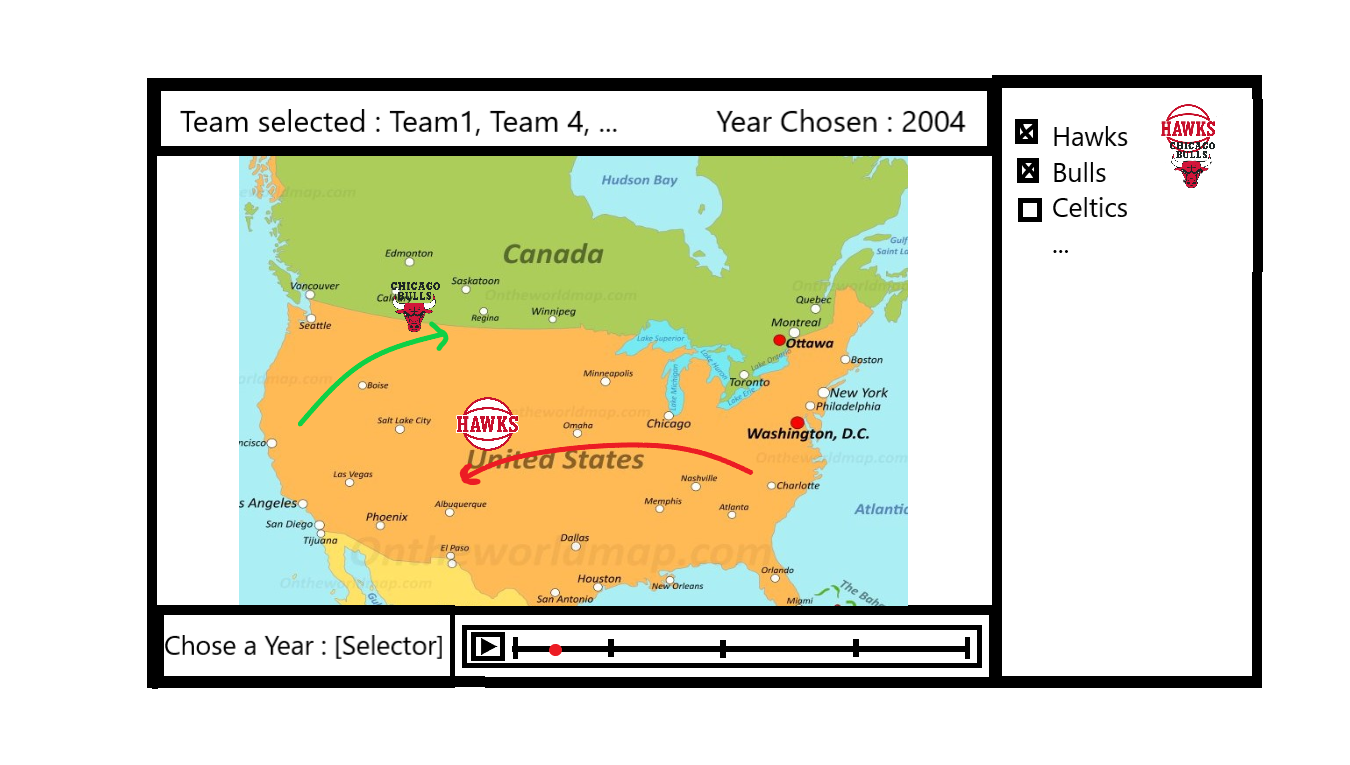
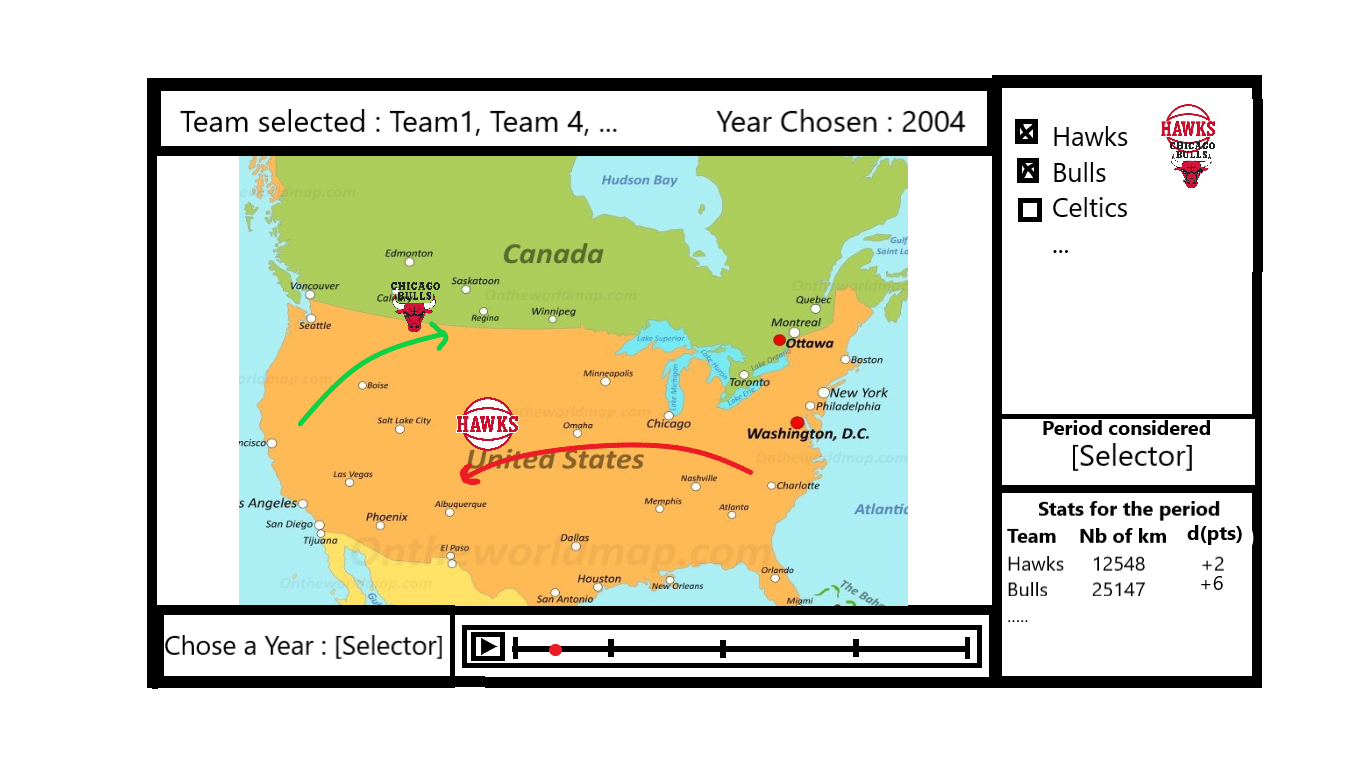
Add the period selector and the statistics

Changed region(s): [[0.7467, 0.5412, 0.9333, 0.7817]]

diff --git a/website/js/viz1.js b/website/js/viz1.js
@@ -1,4 +1,4 @@
-var width = 962,
+var width = 900,
         rotated = 90,
         height = 502;
 
@@ -103,39 +103,10 @@ var width = 962,
 
   }
 
-  function drawLabels() {
-        // white shadow
-        map.svg.append("g").attr('class', 'zoom')
-            .selectAll("text")
-            .data(topojson.feature(map.geo, map.geo.objects.units).features)
-            .enter().append("text")
-            .attr("class", "place-label shadow")
-            .style("font-size", "8px")
-            .attr("x", function(d) { return map.path.centroid(d)[0]; })
-            .attr("y", function(d) { return map.path.centroid(d)[1]+4; })
-            .attr("text-anchor","middle")
-            .text(function(d) { return csv[d.properties.name].num; })
-            .on('click', map.clicked.bind(map));
-
-        // black text
-        map.svg.append("g").attr('class', 'zoom')
-            .selectAll("text")
-            .data(topojson.feature(map.geo, map.geo.objects.units).features)
-            .enter().append("text")
-            .attr("class", "place-label")
-            .style("font-size", "8px")
-            .attr("x", function(d) { return map.path.centroid(d)[0]; })
-            .attr("y", function(d) { return map.path.centroid(d)[1]+4; })
-            .attr("text-anchor","middle")
-            .text(function(d) { return csv[d.properties.name].num; })
-            .on('click', map.clicked.bind(map));
-    }
-
-
 
 function showYearSelection(){
   let years = [...Array(19).keys()].map(i => 2021-i)
-  var dropdownButton = d3.select("#viz1-year-selection")
+  var dropdownButton = d3.select("#viz1-year-selector")
     .append('select')
   // add the options to the button
   dropdownButton // Add a button
@@ -160,6 +131,35 @@ showYearSelection()
 
     // XXX:
 //_-------------------------------------------------------//
+
+
+function showPeriodForStatisticsSelection(){
+  let nb_matches = [1,2,5,10,20,"Whole season"]
+  var dropdownButton = d3.select("#viz1-period-selector")
+    .append('select')
+  // add the options to the button
+  dropdownButton // Add a button
+    .selectAll('myOptions') // Next 4 lines add 6 options = 6 colors
+   	.data(nb_matches)
+    .style("float", "right")
+    .enter()
+  	.append('option')
+    .text(function (d) { return d; }) // text showed in the menu
+    .attr("value", function (d) { return d; }) // corresponding value returned by the butto
+
+  dropdownButton.on("change", function(d) {
+      updatePeriod(d3.select(this).property("value"))
+  })
+  function updatePeriod(nb_matches){
+    // d3.select("#chosen-year")
+    //   .text(`The year chosen is ${year}`)
+  }
+}
+showPeriodForStatisticsSelection()
+
+
+    // XXX:
+//_-------------------------------------------------------//
 class Team{
     constructor(name, id, abbreviation, lat, long){
         this.name = name;
@@ -171,7 +171,7 @@ class Team{
 }
 
 var chosenTeams = new Set()
-d3.csv('https://raw.githubusercontent.com/com-480-data-visualization/datavis-project-2022-lebron-jenkins/master/website/data/teams_summary.csv', (data) => {
+d3.csv('https://raw.githubusercontent.com/com-480-data-visualization/datavis-project-2022-lebron-jenkins/master/data_web/teams_summary.csv', (data) => {
   teams = data.map(team => new Team(team["NICKNAME"], parseInt(team["TEAM_ID"]), team["ABBREVIATION"],parseInt(team["LATITUDE"]),parseInt(team["LONGITUDE"])))
   showTeams(teams)
   })
@@ -212,8 +212,14 @@ function updateChosenTeams(d, add){
   }else{
     chosenTeams.delete(d.name)
   }
-  let text = "The teams chosen are ";
-  chosenTeams.forEach (value => text += value+ ", ")
+  let text = ""
+  if(chosenTeams.size == 0){
+    text = "Chose teams to display !"
+  }else{
+    text = "The teams chosen are ";
+    chosenTeams.forEach (value => text += value+ ", ")
+    text = text.slice(0,-2)
+  }
   d3.select("#chosen-teams")
-    .text(`${text.slice(0,-2)}`)
+    .text(`${text}`)
 }

diff --git a/website/index.html b/website/index.html
@@ -107,17 +107,12 @@
 
     <!---------------------------------------------- Viz ----------------------------------------->
     <section id="viz1" class="tm-section-pad-top">
-      <div class="container tm-container-gallery">
-        <div class="row">
-          <div class="text-center col-12">
-              <h2 class="tm-text-primary tm-section-title mb-4">Viz 1</h2>
-              <p class="mx-auto tm-work-description">
-                "Curabitur ac orci ac lorem blandit volutpat. Sed ac sodales nibh, ut
-                porttitor elit. Sed id dui mi. Vestibulum ante ipsum primis in faucibus
-                orci luctus et ultrices posuere cubilia."
-              </p>
-          </div>
+      <div class="row">
+        <div class="text-center col-12">
+            <h2 class="tm-text-primary tm-section-title mb-4">Viz 1</h2>
         </div>
+      </div>
+      <div class="container tm-container-gallery">
         <div id = "viz1-container">
           <div id = "viz1-left-part">
             <div id = "viz1-header">
@@ -127,8 +122,8 @@
 
             <div id = "viz1-map"></div>
             <div id = "viz1-bottom">
-              <div id = "viz1-year-selection">
-                <p style="float: left  ">
+              <div id = "viz1-year-selector" class = "viz1-selector-button">
+                <p>
                   Chose a season :
                 </p>
               </div>
@@ -137,8 +132,23 @@
               </div>
             </div>
           </div>
-          <div id="viz1-team-selector">
-
+          <div id = "viz1-right-part">
+            <div id="viz1-team-selector"></div>
+            <div id="viz1-period-selector" class = "viz1-selector-button">
+              <p>
+                Chose the period for the statistics :
+              </p>
+            </div>
+            <div id="viz1-statistics">
+              <p>
+                Teams      nb_kil   delta(pts)
+              </p>
+              <p>
+                Hawks       2125        5
+              </p><p>
+                Bulls       8546        2
+              </p>
+            </div>
           </div>
         </div>
     </section>

diff --git a/website/css/viz1_style.css b/website/css/viz1_style.css
@@ -3,7 +3,7 @@
   overflow: hidden; /* will contain if #first is longer than #second */
   border: 1px solid black;
 }
-#viz1-team-selector {
+#viz1-right-part {
   width: 20%;
   height : 100%;
   float:right; /* add this */
@@ -11,7 +11,7 @@
   overflow-y: auto; /* will contain if #first is longer than #second */
 }
 #viz1-left-part {
-  width: 80%;
+  width: 75%;
   height : 100%;
   float:left; /* add this */
   border: 1px solid black;
@@ -39,7 +39,7 @@
   position: absolute;
   bottom: 0;
 }
-#viz1-year-selection{
+#viz1-year-selector{
   width: 30%;
   height : 100%;
   border: 1px solid black;
@@ -49,5 +49,29 @@
   height : 100%;
   width: 70%;
   float:right; /* add this */
+  border: 1px solid black;
+}
+
+
+#viz1-right-part {
+  width: 25%;
+  height : 100%;
+  float:right; /* add this */
+  border: 1px solid black;
+
+}
+
+#viz1-team-selector {
+  width: 100%;
+  height : 35%;
+  border: 1px solid black;
+  overflow-y: auto; /* will contain if #first is longer than #second */
+}
+
+#viz1-period-selector {
+  border: 1px solid black;
+}
+
+#viz1-viz1-statistics {
   border: 1px solid black;
 }

diff --git a/Milestone2.md b/Milestone2.md
@@ -1,7 +1,10 @@
 # Milestone 2
 
 ## Visualization 1
-The goal of the visualization is to show the travels of the different teams during the season. See the number of kilometers it travels and if we have time the impact it can have on the results.
+The goal of the visualization is to show the travels of the different teams during the season. See the number of kilometers it travels and the impact it can have on the results.
+For this, we will let the user chose a set of teams that will be put on the map and will move following the journeys they did during the season.
+Moreover, there will be a table with the statistics of these teams that show the number of kilometers and the number of points it did during the last period selected.
+ 
 
 ### Sketch
 ![sketch viz1]('https://raw.githubusercontent.com/com-480-data-visualization/datavis-project-2022-lebron-jenkins/master/sketches/MVP_viz1.png')
@@ -17,10 +20,15 @@ The goal of the visualization is to show the travels of the different teams duri
 #### MVP
 - Team selector : load the teams in the database and put checkboxes for each of them. Then if the team is selected add it to the header
 - Year selector : add a selector button with the different years to chosen
+- Period considered selector :
 - Timeline of the season by teams : by teams load the location of their match during the season.
 - Map : use the [tutorial](https://bost.ocks.org/mike/map/) to draw a map of the US and Canada. Add the labels of the teams on the map with their logo. Make the teams move on the map. Add the kilometers it has moved.
-#### Additional features
 - Show the link between the numbers of kilometers by the number of points or the ranks it gained/lost during the last period of time.
+
+
+#### Additional features
+- Show the results of the match when the team is in the city with an animation if it has lost or win
+
 
 ## Visualization 2
 
